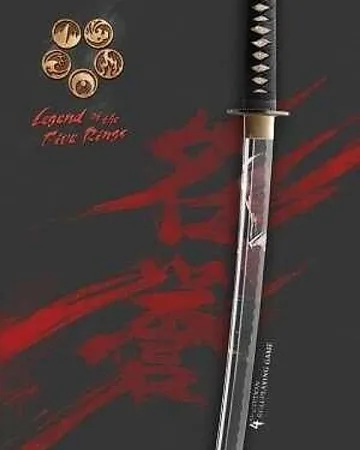
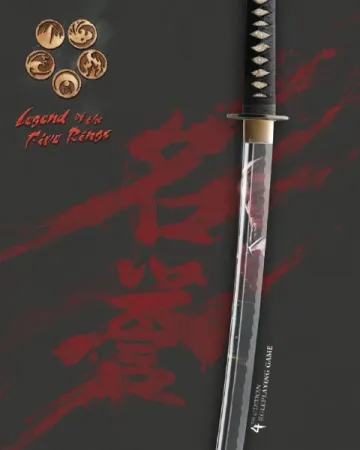
Small backlog: slow-phone Filters tap is remembered, docs/setup.md references point to cutover.md, diagram says every minute, relay rotation steps documented, sharper L5R 4e and Shadowrun 3e covers

Changed region(s): [[0.0, 0.0, 1.0, 1.0], [0.0, 0.84, 0.1222, 0.9022]]

diff --git a/tests/e2e/public.spec.ts b/tests/e2e/public.spec.ts
@@ -307,20 +307,32 @@ test("the Game Masters page can be searched by name, city or system, and the sho
   await expect(shown).toHaveCount(1);
 });
 
-test("before the page's scripts have run the search and Filters say so and ignore taps; afterwards they work", async ({ page }) => {
+test("before the page's scripts have run the search says so and ignores taps, a tap on Filters is remembered; afterwards they work", async ({ page }) => {
   await page.route("**/_next/static/**/*.js", async (route) => { await new Promise((r) => setTimeout(r, 2500)); await route.continue(); }); // a slow phone
   await page.goto("/en/games/", { waitUntil: "domcontentloaded" });
   const search = page.getByLabel("Search", { exact: true });
   const filters = page.getByRole("button", { name: /Filters/ });
   await expect(search).toHaveJSProperty("readOnly", true);
   await expect(filters).toHaveAttribute("aria-disabled", "true");
-  expect(await filters.evaluate((el) => getComputedStyle(el).pointerEvents), "taps go through to nothing").toBe("none");
+  expect(await search.evaluate((el) => getComputedStyle(el).pointerEvents), "the search takes no taps yet").toBe("none");
+  await filters.click({ force: true }); // a real tap is not held back by aria-disabled; too early for the page's own handler: only the inline script sees it
+  await expect(page.locator("html")).toHaveAttribute("data-ft", "1");
   await expect(page.locator("[data-ready]")).toBeAttached({ timeout: 20_000 });
   await expect(search).toHaveJSProperty("readOnly", false);
   await expect(filters).not.toHaveAttribute("aria-disabled", "true");
+  await expect(page.getByLabel("Where", { exact: true }), "the early tap opened Filters").toBeVisible();
+  await expect(page.locator("html")).not.toHaveAttribute("data-ft", "1");
   await search.fill("kumu");
   await expect(page.getByTestId("games-count")).toHaveText("Showing 1 game");
-  await filters.click();
+});
+
+test("on a slow phone a tap on Filters before the scripts have run opens the Filters sheet as soon as they have", async ({ page }) => {
+  await page.setViewportSize({ width: 390, height: 844 });
+  await page.route("**/_next/static/**/*.js", async (route) => { await new Promise((r) => setTimeout(r, 2500)); await route.continue(); });
+  await page.goto("/en/games/", { waitUntil: "domcontentloaded" });
+  await page.getByRole("button", { name: /Filters/ }).click({ force: true }); // a real tap is not held back by aria-disabled
+  await expect(page.locator("[data-ready]")).toBeAttached({ timeout: 20_000 });
+  await expect(page.getByRole("dialog"), "the sheet is open without a second tap").toBeVisible();
   await expect(page.getByLabel("Where", { exact: true })).toBeVisible();
 });
 

diff --git a/src/components/games-browser.tsx b/src/components/games-browser.tsx
@@ -36,7 +36,12 @@ export function GamesBrowser({ games, options }: { games: GameView[]; options: R
     const f = parseFilters(window.location.search);
     setFilters(f); // the address is only known in the browser
     setNow(Date.now());
-    setOpen(activeFilterCount({ ...f, q: "" }) > 0);
+    // A tap on Filters made before these scripts ran (see REMEMBER_FILTERS_TAP in the page) opens them now.
+    const tapped = document.documentElement.dataset.ft;
+    delete document.documentElement.dataset.ft;
+    const onPhone = window.matchMedia("(max-width: 639px)").matches;
+    if (tapped && onPhone) setSheet(true);
+    setOpen(tapped && !onPhone ? true : activeFilterCount({ ...f, q: "" }) > 0);
     const onBack = () => setFilters(parseFilters(window.location.search)); // Back and Forward step through the pages
     window.addEventListener("popstate", onBack);
     return () => window.removeEventListener("popstate", onBack);
@@ -102,7 +107,7 @@ export function GamesBrowser({ games, options }: { games: GameView[]; options: R
           <label htmlFor="q" className="label">{t("games.search")}</label>
           <input id="q" type="search" className={`input ${wait}`} readOnly={!ready} value={filters.q} placeholder={t("games.searchPlaceholder")} maxLength={80} onChange={(e) => set({ q: e.target.value })} />
         </div>
-        <button type="button" className={`btn btn-secondary min-w-11 ${wait}`} aria-disabled={!ready || undefined} aria-expanded={phone ? sheet : open} aria-controls="filter-panel" onClick={() => (phone ? setSheet(true) : setOpen(!open))}>
+        <button type="button" data-filters-btn className={`btn btn-secondary min-w-11 ${wait}`} aria-disabled={!ready || undefined} aria-expanded={phone ? sheet : open} aria-controls="filter-panel" onClick={() => (phone ? setSheet(true) : setOpen(!open))}>
           {t("games.filters")}{filterCount > 0 ? ` (${filterCount})` : ""}
         </button>
       </div>

diff --git a/src/app/[lang]/games/page.tsx b/src/app/[lang]/games/page.tsx
@@ -13,6 +13,9 @@ import { isLang } from "@/lib/types";
 /** Runs before the list is drawn: a shared address with a query (?page=2, ?system=…) hides the unfiltered list until GamesBrowser has read it. The timer is a way out if the page never loads. */
 const HIDE_UNTIL_READ = 'if(location.search.length>1){var d=document.documentElement;d.dataset.q="1";setTimeout(function(){delete d.dataset.q},3000)}';
 
+/** A tap on Filters before the page's scripts have run is remembered (the list opens Filters when it is ready) instead of being lost on a slow phone. */
+const REMEMBER_FILTERS_TAP = 'document.addEventListener("click",function(e){var t=e.target;if(t&&t.closest&&t.closest("[data-filters-btn]")&&!document.querySelector("[data-ready]"))document.documentElement.dataset.ft="1"})';
+
 export async function generateMetadata({ params }: PageProps<"/[lang]/games">): Promise<Metadata> {
   const { lang } = await params;
   if (!isLang(lang)) return {};
@@ -32,7 +35,7 @@ export default async function GamesPage({ params }: PageProps<"/[lang]/games">) 
       ]} />
       <h1 className="max-w-none text-[length:var(--text-display-s)]">{t("games.title")}</h1>
       <p className="lead mb-[var(--space-xl)] mt-[var(--space-sm)] text-ink-2">{t("games.count", { n: games.length })}</p>
-      <script dangerouslySetInnerHTML={{ __html: HIDE_UNTIL_READ }} />
+      <script dangerouslySetInnerHTML={{ __html: HIDE_UNTIL_READ + ";" + REMEMBER_FILTERS_TAP }} />
       <GamesBrowser games={games} options={filterOptions(games)} />
     </div>
   );

diff --git a/src/app/globals.css b/src/app/globals.css
@@ -156,6 +156,9 @@
   .rank { position: absolute; right: 0; bottom: -0.12em; z-index: -1; font: 400 4rem/1 var(--font-display); color: transparent; -webkit-text-stroke: 1.5px color-mix(in oklab, var(--color-ink) 24%, var(--color-paper)); pointer-events: none; user-select: none; font-variant-numeric: lining-nums; }
   /* A control whose script has not run yet: taps and typing do nothing, so it says so, but only if the wait is long (no flicker on a fast load). */
   .pending { pointer-events: none; animation: pending-dim 0s linear 0.8s forwards; }
+  /* The Filters button still takes a tap before the scripts run: an inline script in the page remembers it and the list opens Filters once it is ready. */
+  .pending[data-filters-btn] { pointer-events: auto; }
+  html[data-ft] [data-filters-btn] { opacity: 0.6; }
   @keyframes pending-dim { to { opacity: 0.55; } }
   /* The filter sheet on a phone: a native modal dialog docked to the bottom, so focus stays inside it and Escape closes it (R-32). */
   .sheet { margin: auto 0 0; width: 100%; max-width: none; max-height: 88dvh; overflow-y: auto; padding: var(--space-lg) var(--gutter) var(--space-xl); border: 0; border-top: 4px double var(--color-ink); border-radius: var(--radius-input) var(--radius-input) 0 0; background: var(--color-paper); color: var(--color-ink); }

diff --git a/src/lib/i18n/id.ts b/src/lib/i18n/id.ts
@@ -360,7 +360,7 @@ export const id: Record<MsgKey, string> = {
   "admin.publish.behind": "Pembaruan situs terakhir ({when}) belum ada di halaman ini. Muat ulang; kalau tetap begitu, kemungkinan build gagal: cek Deployments di Cloudflare.",
   "admin.publish.now": "Tayangkan sekarang",
   "admin.publish.started": "Sedang menayangkan. Situs diperbarui dalam satu-dua menit.",
-  "admin.publish.notConfigured": "Penayangan belum disiapkan: tambahkan deploy hook Cloudflare (docs/setup.md).",
+  "admin.publish.notConfigured": "Penayangan belum disiapkan: tambahkan deploy hook Cloudflare (docs/cutover.md).",
   "admin.publish.failed": "Tidak bisa memulai penayangan.",
   "admin.admins.title": "Admin",
   "admin.admins.lead": "Semua yang terdaftar di sini bisa masuk ke halaman ini dengan alamat email tersebut dan meninjau kiriman.",

diff --git a/src/lib/i18n/en.ts b/src/lib/i18n/en.ts
@@ -359,7 +359,7 @@ export const en = {
   "admin.publish.behind": "The last publish ({when}) is not in this page yet. Reload; if it stays like this, the build probably failed: check Deployments in Cloudflare.",
   "admin.publish.now": "Publish now",
   "admin.publish.started": "Publishing. The site updates in a minute or two.",
-  "admin.publish.notConfigured": "Publishing is not set up: add the Cloudflare deploy hook (docs/setup.md).",
+  "admin.publish.notConfigured": "Publishing is not set up: add the Cloudflare deploy hook (docs/cutover.md).",
   "admin.publish.failed": "Could not start publishing.",
   "admin.admins.title": "Admins",
   "admin.admins.lead": "Everyone listed here can sign in on this page with that email address and review submissions.",

diff --git a/functions/api/[[path]].ts b/functions/api/[[path]].ts
@@ -1,5 +1,5 @@
 // Cloudflare Pages Function: every /api/* request. All the logic is in worker/src; this only wires up the bindings
-// (see docs/setup.md): DB (D1), IMAGES (R2) and the variables below.
+// (see docs/cutover.md): DB (D1), IMAGES (R2) and the variables below.
 import { handle } from "../../worker/src/handler.ts";
 import type { Bucket, Db } from "../../worker/src/db.ts";
 import { normalizeEmail, relayMailer, type Mailer } from "../../worker/src/email.ts";

diff --git a/docs/art-credits.md b/docs/art-credits.md
@@ -16,7 +16,7 @@ The other 31 pictures are for editions StartPlaying does not list. They were fou
 
 Delete the file in `public/images/genres/` or `public/images/systems/`. For a system also delete its line in `src/lib/system-covers.ts` and the tile falls back to the cover of its soonest listing. For a genre, put a replacement file of the same name (a genre tile without a picture file shows a plain colour block). Then push; the next build drops it. The file stays in git history, so if the request needs it gone completely, the history has to be rewritten too.
 
-A second pass the same day replaced 14 of those 30 with sharper pictures (2e/3e/4e covers and older books): Fate Condensed (Evil Hat's itch.io page), GURPS 3e (Warehouse 23), Call of Cthulhu 6e and Shadowrun 4e (Open Library), Nimble 5e and Savage Worlds Deluxe (Nimble Co. and Pinnacle shop pages), Mutants & Masterminds 2e, Vampire: The Requiem 1st Edition, Warhammer Fantasy Roleplay 2e (Wikipedia) and 3e, Pokémon Tabletop United (its own cover instead of StartPlaying's icon pattern), The One Ring 1e (the 2011 box; it had wrongly shown the 2nd edition cover), Classic Traveller (the Starter Edition box art, without its title) and Traveller (Mongoose 1st Edition) (its black cover, centred). Shadowrun 3e (a 389 px Open Library scan) and Legend of the Five Rings 4th Edition (300 px) are the best scans found; both are upscaled in two steps with edge sharpening (scratch script, not in the repo), so they are crisper but not more detailed.
+A second pass the same day replaced 14 of those 30 with sharper pictures (2e/3e/4e covers and older books): Fate Condensed (Evil Hat's itch.io page), GURPS 3e (Warehouse 23), Call of Cthulhu 6e and Shadowrun 4e (Open Library), Nimble 5e and Savage Worlds Deluxe (Nimble Co. and Pinnacle shop pages), Mutants & Masterminds 2e, Vampire: The Requiem 1st Edition, Warhammer Fantasy Roleplay 2e (Wikipedia) and 3e, Pokémon Tabletop United (its own cover instead of StartPlaying's icon pattern), The One Ring 1e (the 2011 box; it had wrongly shown the 2nd edition cover), Classic Traveller (the Starter Edition box art, without its title) and Traveller (Mongoose 1st Edition) (its black cover, centred). On 2026-11-04 Legend of the Five Rings 4th Edition was replaced with the 721 x 935 core book cover from the L5R wiki (Fandom, "Fourth Edition Core Book.jpg"; it was a 300 px scan), a real gain in detail. Shadowrun 3e stays the 389 x 500 Open Library scan of the FASA 7001 softcover (ISBN 1-55560-371-8), the largest found (the Shadowrun wiki's copy is only 300 x 390): it was reprocessed with one clean resize and no sharpening, so it has no halos or blocks, but no more detail than before.
 
 Warhammer Fantasy Roleplay 1e is the last one found: the cover of the 1995 reprint of the 1986 core rulebook, from Open Library (cover 946179, 367 px).
 

diff --git a/docs/cutover.md b/docs/cutover.md
@@ -49,6 +49,14 @@ npm run cloudflare:setup     stores that secret as MAIL_SECRET
 Gmail's own sending limit applies; if the board grows past about 90 sign-ins and decisions a day, switch the mailer to a sending
 service (`worker/src/email.ts`: one file).
 
+**Rotating the relay** (its address or secret leaked), done once on 2026-11-03 without a gap in mail:
+
+1. Push `Code.gs` with a new secret and create a NEW web-app deployment (`clasp deploy` without `-i`); the old one keeps working with the old secret.
+2. Put the new `deploymentId` and `mailSecret` in `.apps-script.local.json`, and the new address in the `mailRelayUrl` override of `.cloudflare.local.json` (the override wins over the deployment id).
+3. `npm run cloudflare:setup`, then rebuild through the deploy hook so the Function picks up the new variables.
+4. Check the new address without sending mail: a request with a bad recipient answers `bad_request` with the right secret and `unauthorized` with a wrong one.
+5. Only then `clasp undeploy` the old deployment id.
+
 ## 4. Turnstile (the robot check), optional but recommended
 
 `npm run cloudflare:setup -- --turnstile` makes the widget (free) and stores its keys; rebuild afterwards (the site key is a build variable).

diff --git a/docs/architecture.md b/docs/architecture.md
@@ -13,7 +13,7 @@ flowchart TB
     FN["Pages Function /api<br/>worker/src/handler.ts"]
     D1[(D1: accounts, profiles,<br/>games, admins, activity)]
     R2[(R2: pictures,<br/>daily backups)]
-    CRON["Worker quest-board-cron<br/>every 10 min + daily"]
+    CRON["Worker quest-board-cron<br/>every minute + daily"]
     TS[Turnstile]
   end
   GAS["Apps Script mail relay<br/>(the owner's Gmail)"]
